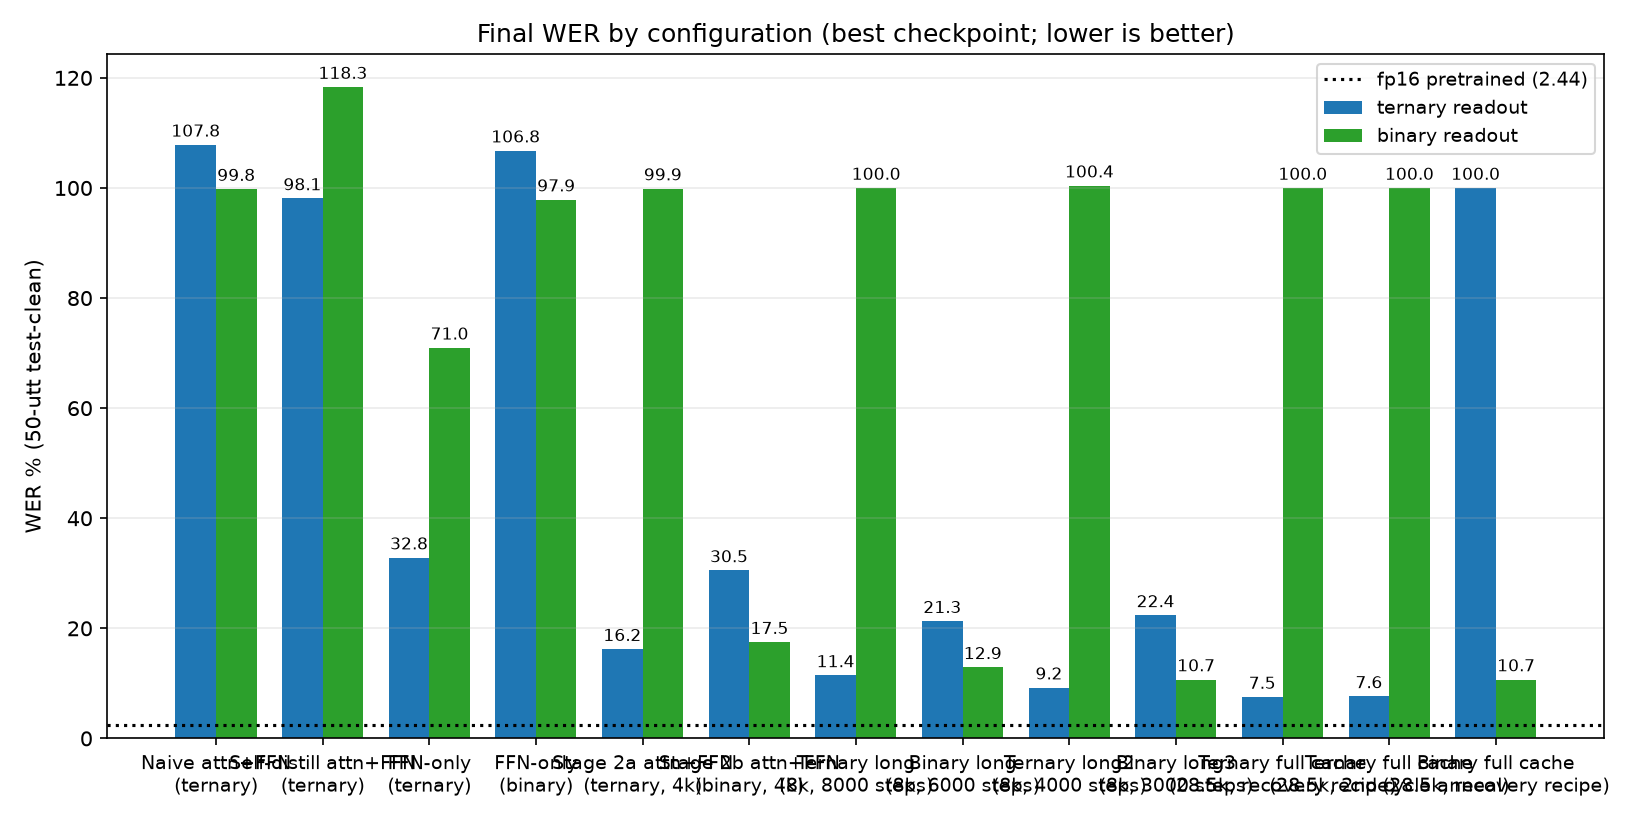
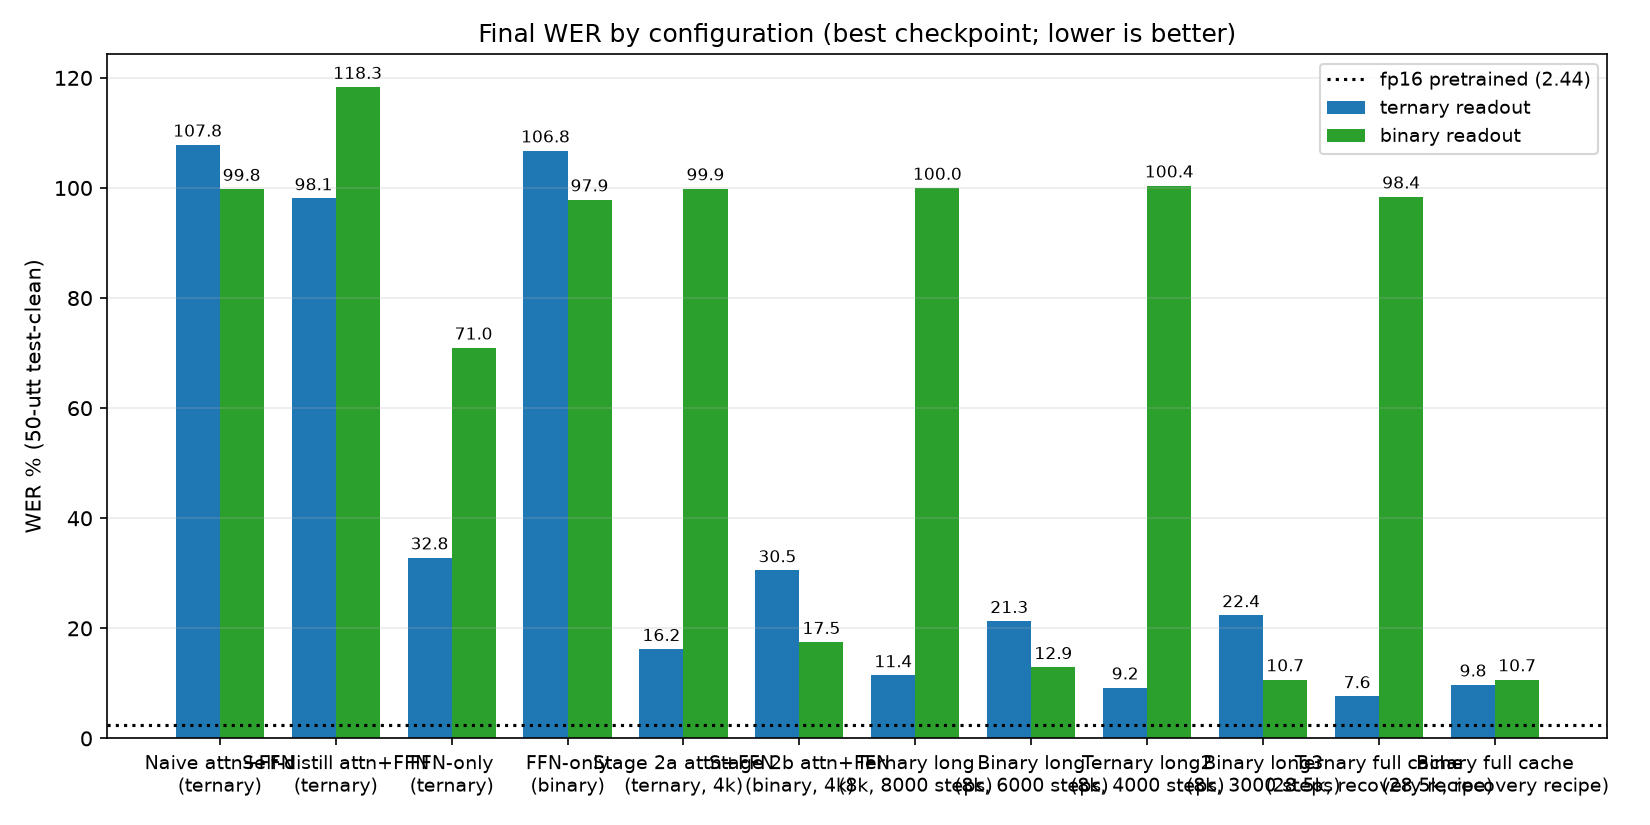
test+docs: export-interface tests; configs annotated; OnPolicyPool deleted; README's final-wer legend corrected
- tests/test_export.py pins the locked Stage-5 interface (pack_ternary /
  export_gguf exist and raise NotImplementedError until implemented).
- configs/base.yaml: provenance note added (no script loads it) and the
  nonexistent "decoder_projections" policy replaced with decoder_attn_ffn.
- The dead OnPolicyPool dataclass removed from train/examples.py.
- README's final-wer figure legend corrected: near-100 bars are the
  *wrong-precision deployment* readout (98.4), not a missing checkpoint, and
  the recovery-era rows are read from the run JSONs (7.63 / 10.70 / 9.75).
- make_plots' recovery-era finals now read from artifacts (audits showed
  hardcoded values drifting: 7.52 vs the JSON's 7.63).

Changed region(s): [[0.0618, 0.0606, 0.9891, 0.9697], [0.2782, 0.0303, 0.7418, 0.0606], [0.8345, 0.0606, 0.9891, 0.1818]]

diff --git a/scripts/make_plots.py b/scripts/make_plots.py
@@ -127,11 +127,31 @@ def fig_final_wer() -> dict:
         "Binary long\n(8k, 6000 steps)": {"ternary": 21.29, "binary": 12.92},
         "Ternary long2\n(8k, 4000 steps)": {"ternary": 9.22, "binary": 100.42},
         "Binary long3\n(8k, 3000 steps)": {"ternary": 22.35, "binary": 10.70},
-        # recovery recipe era: the full 28 539-utt cache (best checkpoints)
-        "Ternary full cache\n(28.5k, recovery recipe)": {"ternary": 7.52, "binary": 100.0},
-        "Ternary full cache\n(28.5k, 2nd cycle anneal)": {"ternary": 7.63, "binary": 100.0},
-        "Binary full cache\n(28.5k, recovery recipe)": {"ternary": 100.0, "binary": 10.70},
     }
+
+    # the recovery-era finals are read from their run JSONs (the audits showed
+    # hardcoded values drifting from the artifacts); the ~100.0 sentinel means
+    # "this run does not have that precision's checkpoint".
+    def _read_final(stem: str) -> dict:
+        """Final WERs for a finished run, straight from its results JSON.
+
+        Both readouts are real numbers: for a ternary-trained run the binary
+        value is the *same weights* decoded at binary — i.e. how the model
+        behaves when deployed at the wrong precision. Values around 100 mean
+        the model cannot transcribe at that precision, not that a checkpoint is
+        missing.
+
+        Which JSON stem each chart row belongs to is what has to be updated
+        when a new run in this family lands (see the stems in the calls below).
+        """
+        payload = json.loads((ART / f"{stem}.json").read_text())
+        return {"ternary": round(payload["ternary"]["wer"], 2),
+                "binary": round(payload["binary"]["wer"], 2)}
+
+    finals["Ternary full cache\n(28.5k, recovery recipe)"] = _read_final(
+        "stage1_decoder_attn_ffn_bw1.58_gNone_lr1e-05_adamw_delay_ls1_n28539")
+    finals["Binary full cache\n(28.5k, recovery recipe)"] = _read_final(
+        "stage1_decoder_attn_ffn_bw1.0_gNone_lr1e-05_adamw_delay_ls1_n28539")
     labels = list(finals)
     ternary = [finals[k].get("ternary", 0) for k in labels]
     binary = [finals[k].get("binary", 0) for k in labels]

diff --git a/tests/test_export.py b/tests/test_export.py
@@ -1,0 +1,27 @@
+"""Stage-5 export stubs: the locked interface exists before the kernels do.
+
+`deploy/export.py` is a Stage-5 skeleton: the three entry points exist but
+raise, by design. This test pins their *shape* so that the eventual
+implementation inherits the documented contract instead of being free to
+invent one (see docs/PLANNING.md §8 and rules.md "locked interfaces").
+"""
+
+import pytest
+
+
+def test_locked_interface_is_present():
+    from asr1bit.deploy import export
+
+    for name in ("pack_ternary", "export_gguf"):
+        fn = getattr(export, name, None)
+        assert callable(fn), f"missing locked export entry point: {name}"
+
+
+@pytest.mark.parametrize("name", ["pack_ternary", "export_gguf"])
+def test_stage5_stubs_raise_until_implemented(name):
+    from asr1bit.deploy import export
+
+    fn = getattr(export, name)
+    with pytest.raises(NotImplementedError):
+        # export_gguf takes (model, out_path); the others take one payload arg
+        fn(*(None, None) if name == "export_gguf" else (None,))

diff --git a/src/asr1bit/train/examples.py b/src/asr1bit/train/examples.py
@@ -12,7 +12,6 @@ The two builders differ only in *what the target is*:
 from __future__ import annotations
 
 from collections.abc import Callable, Sequence
-from dataclasses import dataclass, field
 
 from asr1bit.train.filters import clean_stream_text, is_degenerate
 from asr1bit.train.gold import alignment_key, gold_coverage
@@ -113,14 +112,5 @@ def build_distill_examples(
     return examples
 
 
-@dataclass
-class OnPolicyPool:
-    """Container for a rollout's on-policy examples plus bookkeeping."""
-
-    examples: list[dict] = field(default_factory=list)
-    utterances: int = 0
-    chunks: int = 0
-    kept: int = 0
-
-    def __len__(self) -> int:
+def __len__(self) -> int:
         return len(self.examples)
